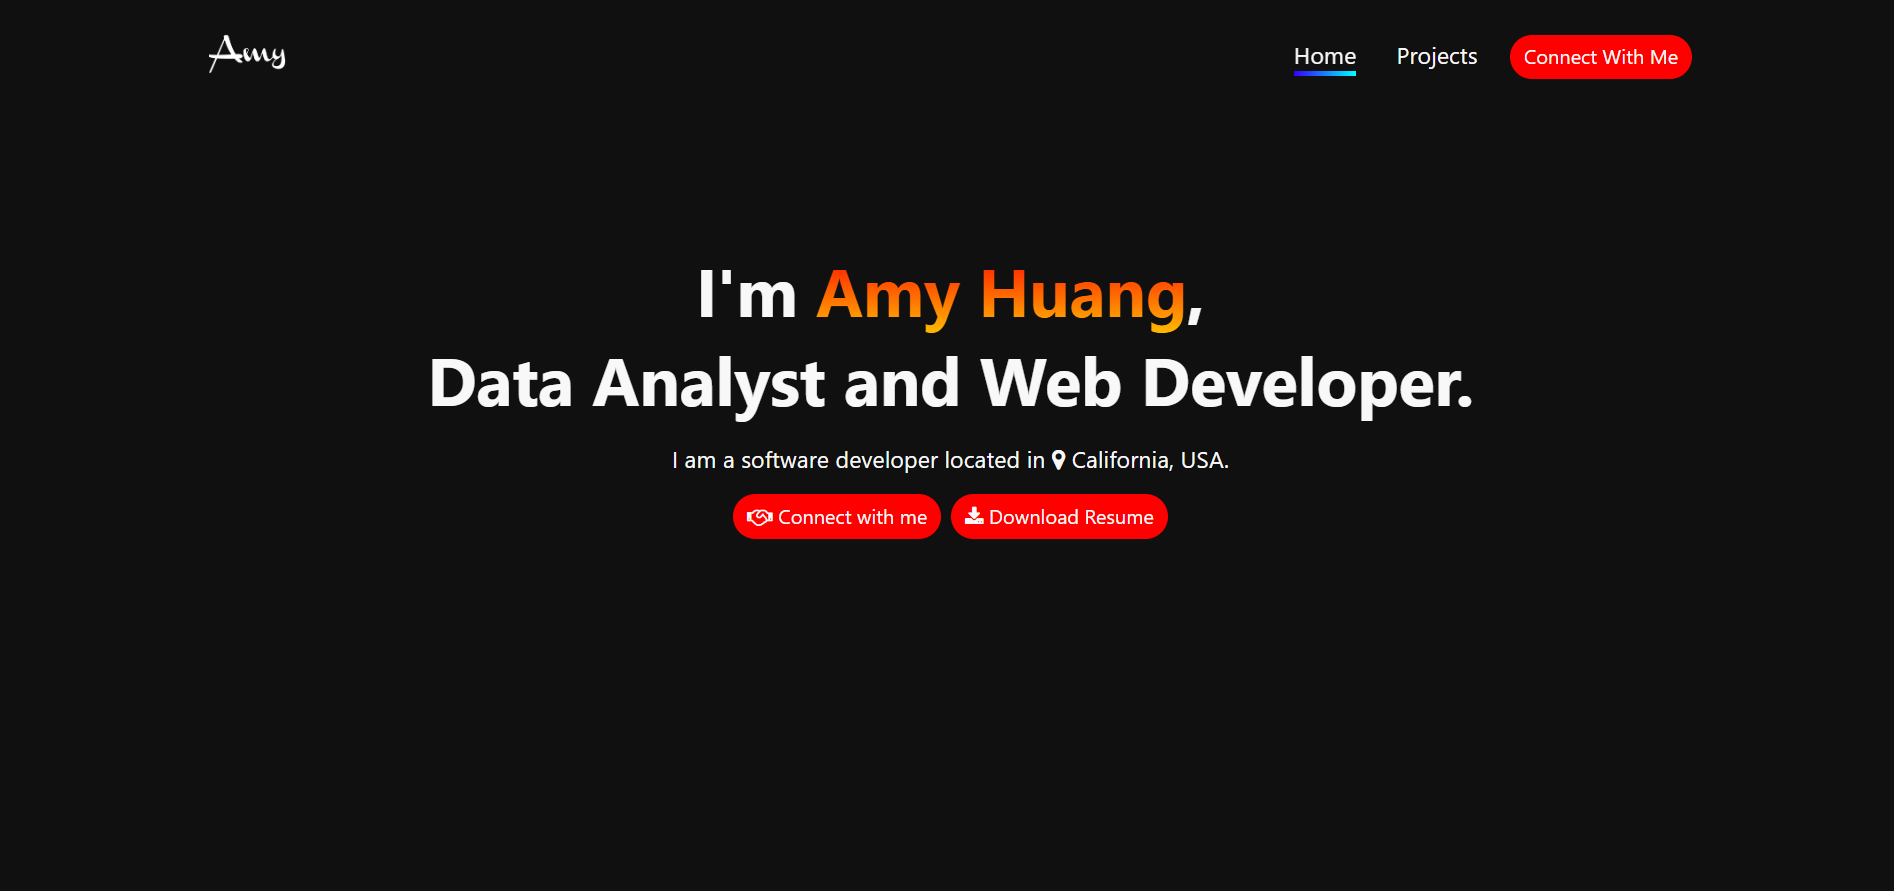
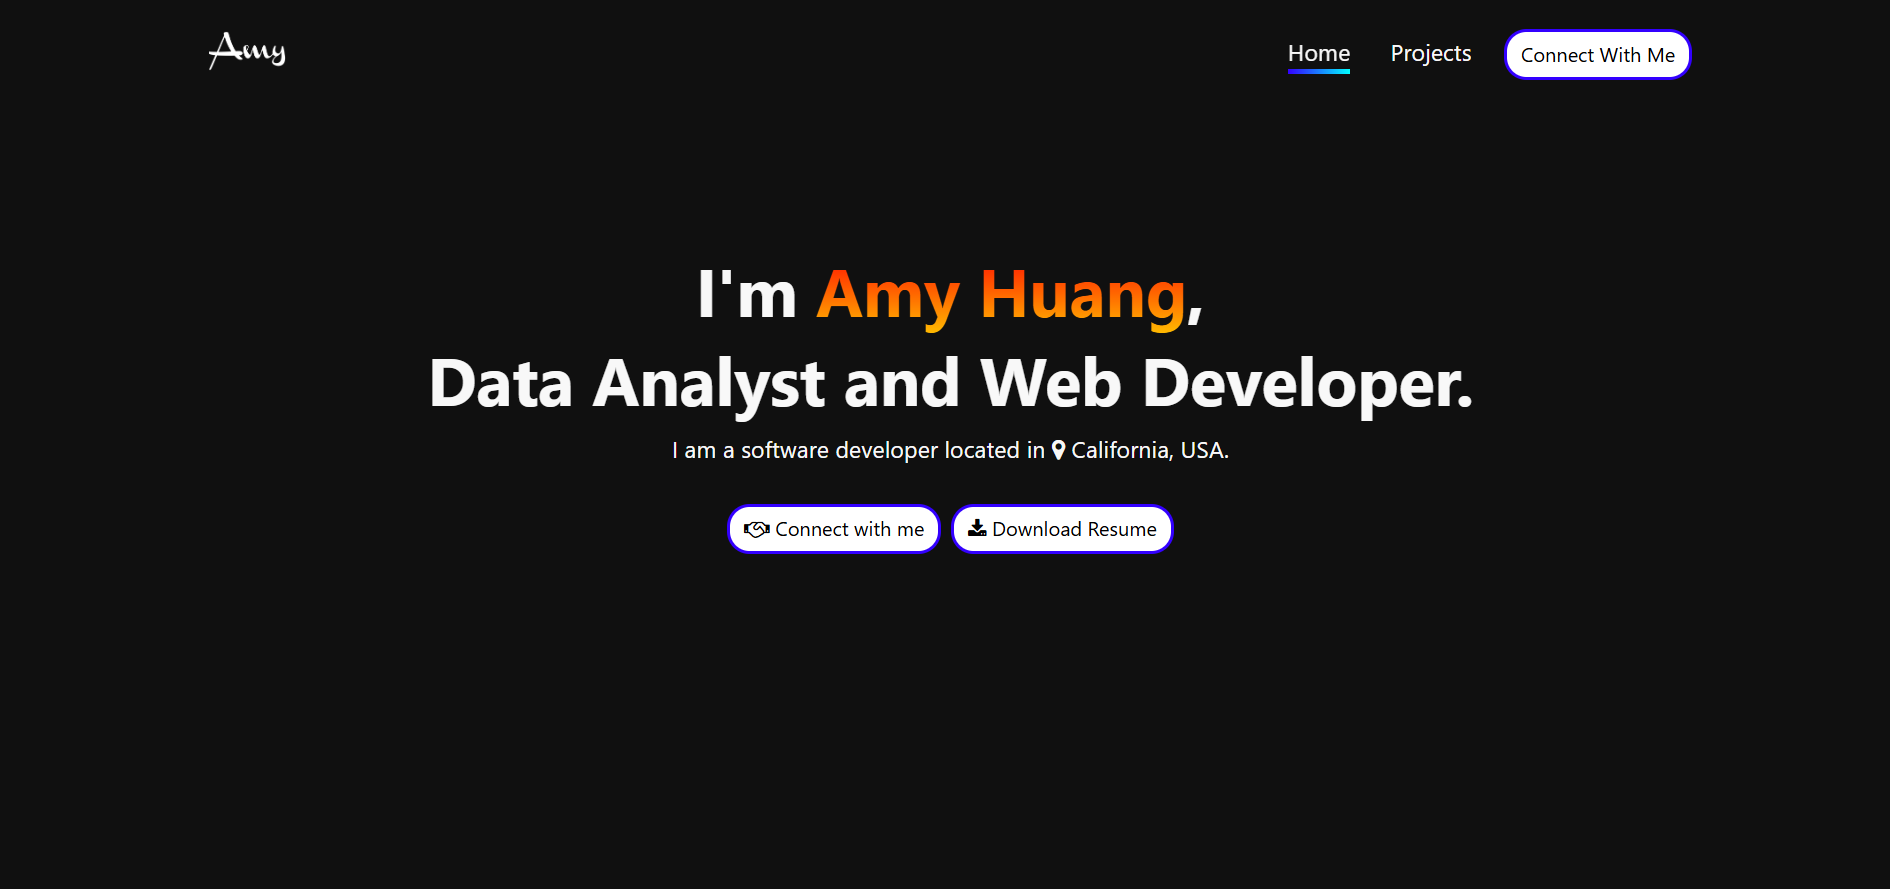
fixed minor typos

diff --git a/styles.css b/styles.css
@@ -1,10 +1,8 @@
 :root {
     --bg-color: #101010;
-    --main-font: 'Segoe UI', Tahoma, Geneva, Verdana, sans-serif;
-    --main-font-size: 14pt;
-    --main-text-color: #f8f8f8;
-    --bright-blue-color: #6699ff;
-    --hot-pink-color: #ff6699;
+    --font-family: 'Segoe UI', Tahoma, Geneva, Verdana, sans-serif;
+    --font-size: 14pt;
+    --white: #f8f8f8;
 }
 
 *,
@@ -17,10 +15,10 @@
 
 body {
     background-color: var(--bg-color);
-    font-family: var(--main-font);
-    font-size: var(--main-font-size);
+    font-family: var(--font-family);
+    font-size: var(--font-size);
     text-align: center;
-    color: var(--main-text-color);
+    color: var(--white);
 }
 
 h2 {
@@ -29,7 +27,7 @@ h2 {
 
 a {
     text-decoration: none;
-    color: var(--bright-blue-color);
+    color: #6699ff;
     cursor: pointer;
 }
 
@@ -60,7 +58,7 @@ a:hover {
     font-size: 12pt;
     cursor: pointer;
     color: #000;
-    background-color: #fff;
+    background-color: var(--white);
     transition: background-color 0.3s ease;
     border: 3px solid #3300ff
 }
@@ -103,7 +101,7 @@ nav {
 }
 
 .nav-links a {
-    color: var(--main-text-color);
+    color: var(--white);
 }
 
 .nav-links a:hover {
@@ -365,7 +363,7 @@ nav {
     margin: 5px;
     padding: 10px 20px;
     background-color: #00aaff;
-    color: white;
+    color: var(--white);
     text-decoration: none;
     border-radius: 5px;
     font-size: 16px;
@@ -388,7 +386,7 @@ nav {
 
 #connect-section i {
     font-size: 50px;
-    color: var(--hot-pink-color);
+    color: #ff6699;
 }
 
 #connect-section i:hover {
@@ -422,7 +420,7 @@ footer {
 
 @media screen and (max-width:715px) {
     :root {
-        --main-font-size: 11pt;
+        --font-size: 11pt;
     }
 
     #introduction h1 {
@@ -488,7 +486,7 @@ footer {
 
     .close-btn {
         font-size: 25px;
-        color: var(--main-text-color);
+        color: var(--white);
         position: absolute;
         top: 34px;
         right: 20%;

diff --git a/index.html b/index.html
@@ -51,7 +51,7 @@
                 <p>> self.location</p>
                 <p>&nbsp;&nbsp; Buena Park, California, USA</p>
                 <p>> self.education</p>
-                <p>&nbsp;&nbsp; UC Irvine, Class of 2022, B.S. Computer Science</p>
+                <p>&nbsp;&nbsp; UC Irvine, Class of 2024, B.S. Computer Science</p>
                 <p>> self.hobbies</p>
                 <p>&nbsp;&nbsp; Reading, YouTube, Badminton</p>
                 <p>> self.resume</p>
@@ -61,8 +61,8 @@
                 <!-- [<a href="resumes/Resume-Huang-Amy.pdf" target="_blank">General</a>, <a>Beautified</a>, <a>WebDev</a>, <a>DataAnalyst</a>] -->
                 <p>> self.certificates</p>
                 <ul class="about-links-list">
-                    <li><a href="static/certificates/certificate_sas1.png" target="_blank">SAS:Essentials 1</a> ,</li>
-                    <li><a href="static/certificates/certificate-advanced-software-engineering-codepath.pdf" target="_blank">Codepath Advanced Software Engineering</a> ,</li>
+                    <li><a href="static/certificates/certificate_sas1.png" target="_blank">SAS:Essentials 1</a>,</li>
+                    <li><a href="static/certificates/certificate-advanced-software-engineering-codepath.pdf" target="_blank">Codepath Advanced Software Engineering</a>,</li>
                     <li><a href="static/certificates/certificate-andriod-dev-codepath.pdf" target="_blank">Codepath Android Development</a></li>
                 </ul>
                 <p>> </p>

diff --git a/projects.html b/projects.html
@@ -110,7 +110,7 @@
                 <p>C++</p>
             </div>
             <div>
-                <img src="https://img.icons8.com/?size=40&id=58811&format=png&color=000000" alt="React Native logo" />
+                <img src="https://img.icons8.com/?size=40&id=123603&format=png&color=000000" alt="React Native logo" />
                 <p>React</p>
             </div>
             <div>
